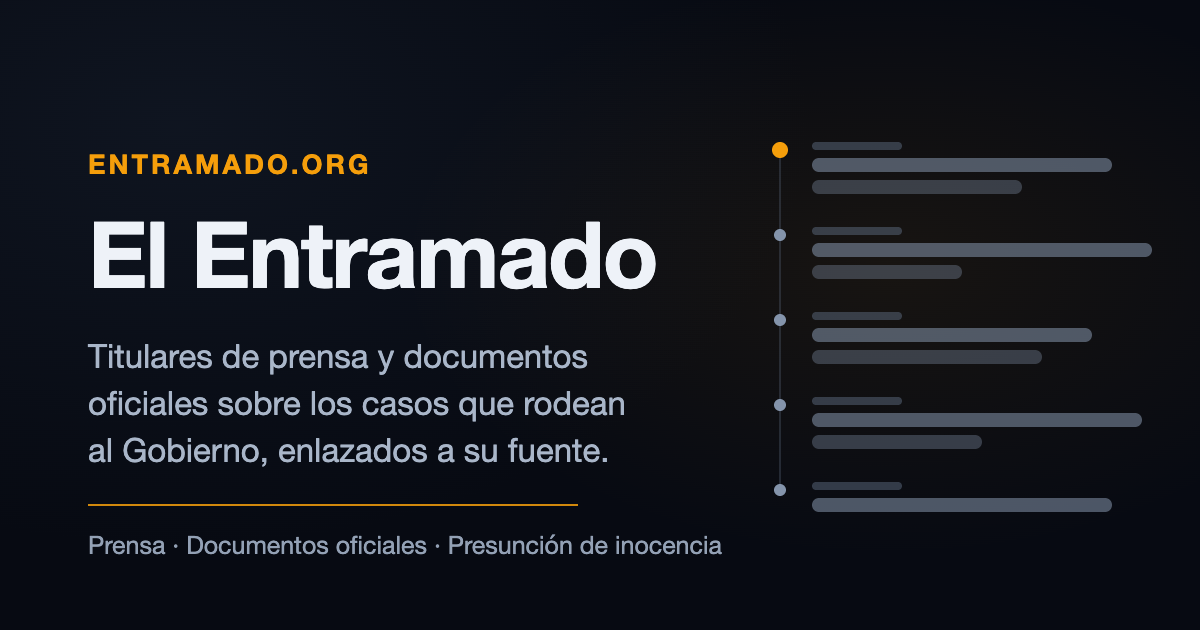
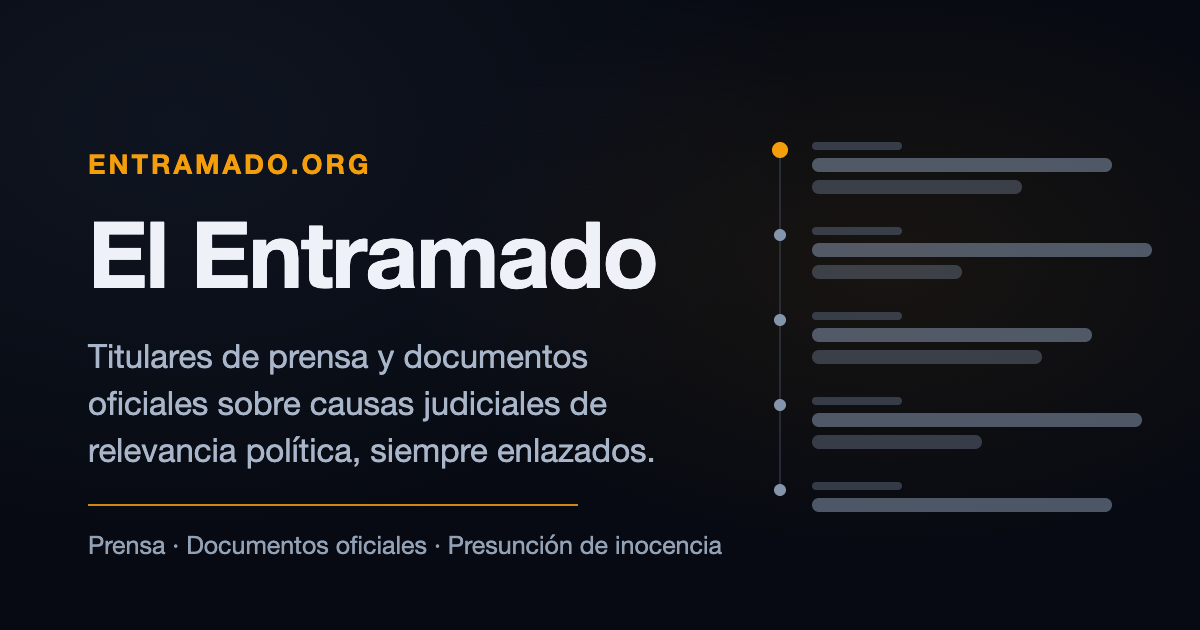
Spec 077 (2.ª ronda): tarjeta OG y alt con el alcance neutro
Claude-Session: https://claude.ai/code/session_01LFPNqxCV6qBn6tjzgQ1VYE

Changed region(s): [[0.0617, 0.6937, 0.555, 0.754], [0.2467, 0.6032, 0.5242, 0.6635]]

diff --git a/web/scripts/opengraph-image.html b/web/scripts/opengraph-image.html
@@ -96,8 +96,8 @@
     <h1>El Entramado</h1>
     <div class="tagline">
       Titulares de prensa y documentos<br />
-      oficiales sobre los casos que rodean<br />
-      al Gobierno, enlazados a su fuente.
+      oficiales sobre causas judiciales de<br />
+      relevancia política, siempre enlazados.
     </div>
     <div class="rule"></div>
     <div class="cases">Prensa &middot; Documentos oficiales &middot; Presunción de inocencia</div>
